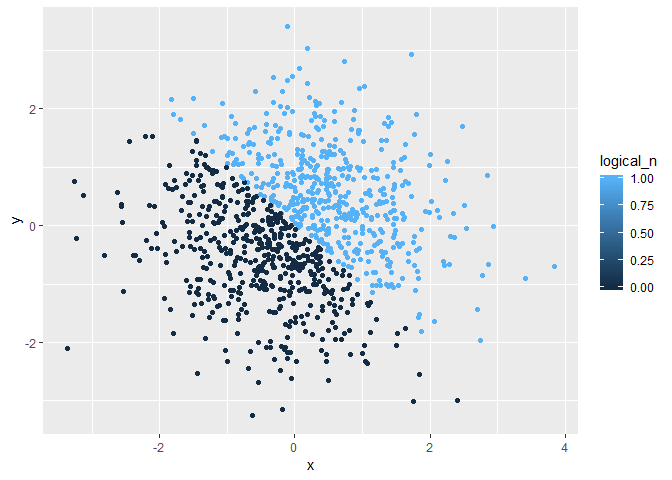
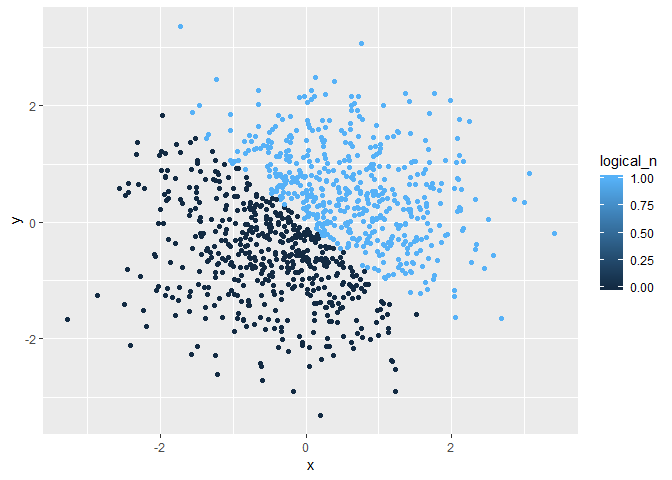
finishing problem 2; full first draft now finished

diff --git a/p8105_hw1_js5431.md b/p8105_hw1_js5431.md
@@ -14,7 +14,7 @@ September 13, 2018
     -   [Describing the dataset](#describing-the-dataset)
     -   [Scatterplot 1](#scatterplot-1)
     -   [Scatterplot 2](#scatterplot-2)
-    -   [Scatteplot 3](#scatteplot-3)
+    -   [Scatterplot 3](#scatterplot-3)
     -   [Commenting on plot colors](#commenting-on-plot-colors)
     -   [Exporting Scatterplot 1](#exporting-scatterplot-1)
 -   [Problem 3](#problem-3)
@@ -65,13 +65,13 @@ p1_df = tibble(
 mean(p1_df$ran_sam)
 ```
 
-    ## [1] 0.1528889
+    ## [1] 0.8037066
 
 ``` r
 mean(p1_df$bigger2)
 ```
 
-    ## [1] 0.4
+    ## [1] 0.2
 
 Notes: I am able to take the mean of the ran\_sam (random sample variable) and bigger2 (logical vector) variables becuase they are both numeric, but not the animal or animal\_f variables becuase they are character vectors.
 
@@ -141,7 +141,7 @@ graphing_df = tibble(
 
 #### Describing the dataset
 
-The dataframe called "graphing\_df" has a size of n=1000. The mean of x is 0.0248862, while the median is 0.0258328. The proportion of cases for which the logical vector "logical" is TRUE is 505 / 1000.
+The dataframe called "graphing\_df" has a size of n=1000. The mean of x is 0.0392428, while the median is 0.030393. The proportion of cases for which the logical vector "logical" is TRUE is 499 / 1000.
 
 #### Scatterplot 1
 
@@ -159,7 +159,7 @@ ggplot(graphing_df, aes(x = x, y = y, color = logical_n)) + geom_point()
 
 ![](p8105_hw1_js5431_files/figure-markdown_github/unnamed-chunk-10-1.png)
 
-#### Scatteplot 3
+#### Scatterplot 3
 
 ``` r
 ggplot(graphing_df, aes(x = x, y = y, color = logical_f)) + geom_point()
@@ -169,9 +169,13 @@ ggplot(graphing_df, aes(x = x, y = y, color = logical_f)) + geom_point()
 
 #### Commenting on plot colors
 
-In Scatterplot 1,
+In Scatterplot 1, the color scale is dichotomous (true/false) because the logical variable only has two categories. However, for Scatterplot 2, the color scale is a gradient because the variable type is numeric, so instead the colors are assigned based on quartiles. Scatterplot 3 uses a binary color scale similar to Scatterplot 1, because the variable used is a factor variable and also has only two categories (this time 0/1).
 
 #### Exporting Scatterplot 1
+
+``` r
+ggsave("scatter_plot.pdf", height = 4, width = 6)
+```
 
 Problem 3
 ---------
